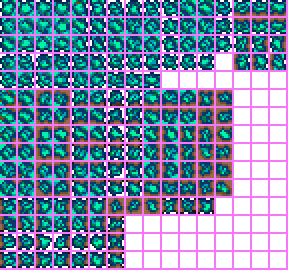
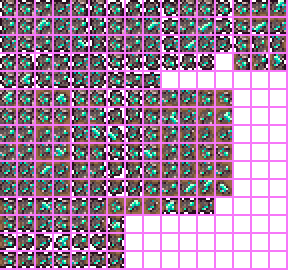
Added stardust realm

diff --git a/WorldContent/DimStardust.cs b/WorldContent/DimStardust.cs
@@ -1,4 +1,5 @@
 using System.IO;
+using System;
 using System.Collections.Generic;
 using Terraria;
 using Terraria.ID;
@@ -11,15 +12,60 @@ namespace Auralite.WorldContent
 {
 	public class DimStardust : ModWorld
 	{
-		public void GenerateStardustDimension(Rectangle rect){
-			//Note about rectangle:
-			//Position of rectangle is the top-right corner of the dimension. So it'll be (X, 0).
-			//Width of the rectangle is always 500 for now, unless we get custom sizes in the future.
-			//Height of the rectangle means nothing that I am aware of. It's probably just the world height.
-			DimLib.InitDimension(rect);
+		 public void GenerateStardustDimension(Rectangle rect){
+            //Note about rectangle:
+            //Position of rectangle is the top-right corner of the dimension. So it'll be (X, 0).
+            //Width of the rectangle is always 500 for now, unless we get custom sizes in the future.
+            //Height of the rectangle means nothing that I am aware of. It's probably just the world height.
+            DimLib.InitDimension(rect);
 
-			//Places a dirt by activating the tile. Default tile type is 0 (dirt) but is inactive (air)
-			Main.tile[rect.Width / 2 + rect.X, rect.Height / 2].active(true);
-		}
+            Action<int, int> activate = (x, y) => Main.tile[x, y].active(true);
+            Action<int, int> deactivate = (x, y) => Main.tile[x, y].active(false);
+            Action<int, int> deactivateDirt = (x, y) => {
+                if(Main.tile[x, y].type == TileID.Dirt)
+                    deactivate(x, y);
+            };
+
+            //activate all tiles
+            DimLib.DoXInRect(rect, activate);
+
+            //place pillars of nebula stone
+            //pillars spawn no closer than 100 tiles from edges of world
+            for(int X = rect.X + 25; X < rect.Right - 25; X++) {
+                //1 in 40 chance of pillar per tile
+                    //pillar starting height is 20% to 30% of world height
+                    int Height = 15;
+                    //pillar goes to bottom of the world
+                    for(int Y = Height; Y < rect.Height; Y++) {
+						if(Main.rand.Next(20) == 0) 
+						{
+                        DimLib.TileRunner(X, Y, Main.rand.Next(1,4), 1, mod.TileType("StardustRock"), false, 0f, 0f, true); 
+                    }
+					if(Main.rand.Next(2000) == 0) 
+						{
+                        DimLib.TileRunner(X, Y, Main.rand.Next(35,40), 1, mod.TileType("StardustRock"), false, 0f, 0f, true); 
+                    }
+                }
+            }
+			for(int X = rect.X + 40; X < rect.Right - 40; X++) {
+                //1 in 40 chance of pillar per tile
+                    //pillar starting height is 20% to 30% of world height
+                    int Height = 15;
+                    //pillar goes to bottom of the world
+                    for(int Y = Height; Y < rect.Height; Y++) {
+						if(Main.rand.Next(20) == 0) 
+						{
+                        DimLib.TileRunner(X, Y, Main.rand.Next(1,4), 1, mod.TileType("StardustRock"), false, 0f, 0f, true); 
+                    }
+					if(Main.rand.Next(45000) == 0) 
+						{
+                        DimLib.TileRunner(X, Y, Main.rand.Next(35,40), 1, mod.TileType("StardustRock"), false, 0f, 0f, true); 
+                    }
+                }
+            }
+
+            //remove all the dirt
+            DimLib.DestroyDirt(rect, deactivateDirt);Main.tile[rect.Width / 2 + rect.X, rect.Height / 2].active(true);
+			}
 	}
 }

diff --git a/WorldContent/DimVortex.cs b/WorldContent/DimVortex.cs
@@ -34,7 +34,6 @@ namespace Auralite.WorldContent
             for(int X = rect.X + 25; X < rect.Right - 25; X++) {
                 //1 in 40 chance of pillar per tile
                     //pillar starting height is 20% to 30% of world height
-                    int Height = Main.rand.Next((int)(Main.maxTilesY*.17), (int)(Main.maxTilesY*.2));
                     //pillar goes to bottom of the world
                     for(int Y = Height; Y < rect.Height; Y++) {
 						if(Main.rand.Next(400) == 0) 
